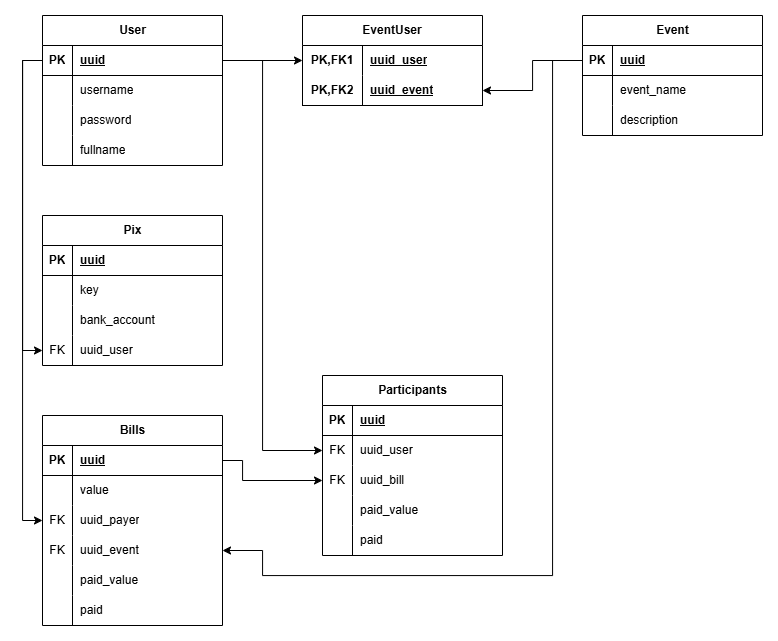
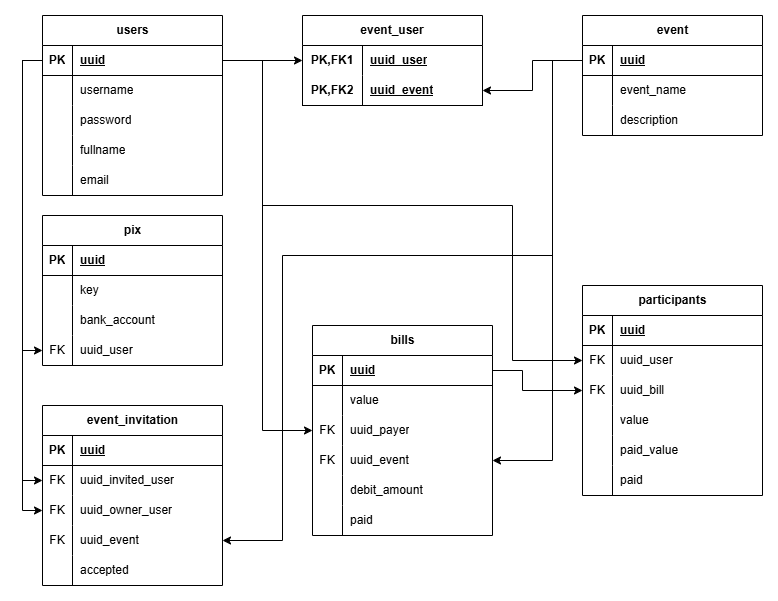
backend create Invitation event page

diff --git a/backend/src/main/java/com/BBHMM/backend/BBHMM/services/EventService.java b/backend/src/main/java/com/BBHMM/backend/BBHMM/services/EventService.java
@@ -3,14 +3,20 @@ package com.BBHMM.backend.BBHMM.services;
 import java.util.List;
 import java.util.UUID;
 
+import org.springframework.data.domain.Page;
+import org.springframework.data.domain.Pageable;
 import org.springframework.security.core.context.SecurityContextHolder;
 import org.springframework.stereotype.Service;
 
 import com.BBHMM.backend.BBHMM.infra.exceptions.InvalidDatabaseQueryException;
 import com.BBHMM.backend.BBHMM.models.Event;
+import com.BBHMM.backend.BBHMM.models.EventInvitation;
 import com.BBHMM.backend.BBHMM.models.User;
+import com.BBHMM.backend.BBHMM.models.request.AcceptInvitationRequest;
 import com.BBHMM.backend.BBHMM.models.request.CreateEventRequest;
 import com.BBHMM.backend.BBHMM.models.request.UpdateEventRequest;
+import com.BBHMM.backend.BBHMM.models.request.UserInvitationRequest;
+import com.BBHMM.backend.BBHMM.repositories.EventInvitationRepository;
 import com.BBHMM.backend.BBHMM.repositories.EventRepository;
 import com.BBHMM.backend.BBHMM.services.validation.EventValidation;
 
@@ -24,6 +30,8 @@ public class EventService {
     
     private final EventRepository repository;
     private final EventValidation validation;
+    private final EventInvitationRepository eventInvitationRepository;
+    private final UserService userService;
     
     @Transactional
     public Event createEvent(CreateEventRequest request, User user) {
@@ -61,5 +69,36 @@ public class EventService {
         event.update(request);
 
         return event;
+    }
+
+    public EventInvitation userInvitationEvent(UUID eventUuid, UserInvitationRequest request) {
+        Event event = getEvent(eventUuid);
+        User userOwner = (User) SecurityContextHolder.getContext().getAuthentication().getPrincipal();
+        User userInvited = userService.safeTakeUserByUuid(eventUuid);
+        validation.checkDuplicationInvate(request.userUuid(), eventUuid);
+        validation.checkUserAlreadyInEvent(request.userUuid(), eventUuid);
+
+        EventInvitation eventInvitation = new EventInvitation(userInvited, userOwner, event);
+        eventInvitationRepository.save(eventInvitation);
+
+        return eventInvitation;
+    }
+
+    @Transactional
+    public EventInvitation acceptedInvitationEvent(UUID invitationUuid, AcceptInvitationRequest request) {
+        EventInvitation eventInvitation = eventInvitationRepository.findById(invitationUuid).orElseThrow(EntityNotFoundException::new);
+        User userInvitedSecurity = (User) SecurityContextHolder.getContext().getAuthentication().getPrincipal();
+        User userInvited = userService.safeTakeUserByUuid(userInvitedSecurity.getUuid());
+        validation.checkInvateValid(eventInvitation, userInvited);
+
+        eventInvitation.acceptInvitation(request.accept());
+        if (request.accept()) eventInvitation.getEvent().addUser(userInvited);
+
+        return eventInvitation;
+    }
+
+    public Page<EventInvitation> listEventInvitation(Pageable pageable) {
+        User userOwner = (User) SecurityContextHolder.getContext().getAuthentication().getPrincipal();
+        return eventInvitationRepository.findAllByUserInvitedUuid(userOwner.getUuid(), pageable);
     }
 }

diff --git a/backend/src/main/java/com/BBHMM/backend/BBHMM/controllers/EventInvitationController.java b/backend/src/main/java/com/BBHMM/backend/BBHMM/controllers/EventInvitationController.java
@@ -1,0 +1,62 @@
+package com.BBHMM.backend.BBHMM.controllers;
+
+import org.springframework.data.domain.Page;
+import org.springframework.data.domain.Pageable;
+import org.springframework.data.web.PageableDefault;
+import org.springframework.http.ResponseEntity;
+import org.springframework.security.core.context.SecurityContextHolder;
+import org.springframework.web.bind.annotation.PathVariable;
+import org.springframework.web.bind.annotation.GetMapping;
+import org.springframework.web.bind.annotation.PostMapping;
+import org.springframework.web.bind.annotation.RequestBody;
+import org.springframework.web.bind.annotation.RequestMapping;
+import org.springframework.web.bind.annotation.RestController;
+
+import com.BBHMM.backend.BBHMM.models.EventInvitation;
+import com.BBHMM.backend.BBHMM.models.User;
+import com.BBHMM.backend.BBHMM.models.request.AcceptInvitationRequest;
+import com.BBHMM.backend.BBHMM.models.request.UserInvitationRequest;
+import com.BBHMM.backend.BBHMM.models.response.EventInvitationResponse;
+import com.BBHMM.backend.BBHMM.services.EventService;
+
+import java.util.UUID;
+import lombok.RequiredArgsConstructor;
+
+@RestController
+@RequestMapping("/events")
+@RequiredArgsConstructor
+public class EventInvitationController {
+
+    private final EventService eventService;
+
+    @PostMapping("/{eventUuid}/invitation")
+    public ResponseEntity<EventInvitationResponse> userInvitationEvent(
+        @PathVariable UUID eventUuid,
+        @RequestBody UserInvitationRequest request
+        ) {
+        EventInvitation eventInvitation = eventService.userInvitationEvent(eventUuid, request);
+        User userOwner = (User) SecurityContextHolder.getContext().getAuthentication().getPrincipal();
+        
+        return ResponseEntity.ok(new EventInvitationResponse(eventInvitation.getUuid(), eventService.getEvent(eventUuid), eventInvitation.getUserInvited(), userOwner));
+    }
+
+    @PostMapping("/invitation/{invitationUuid}/accepted")
+    public ResponseEntity<EventInvitationResponse> acceptedInvitationEvent(
+        @PathVariable UUID invitationUuid,
+        @RequestBody AcceptInvitationRequest request
+        ) {
+        EventInvitation eventInvitation = eventService.acceptedInvitationEvent(invitationUuid, request);
+        User invitedUser = (User) SecurityContextHolder.getContext().getAuthentication().getPrincipal();
+        
+        return ResponseEntity.ok(new EventInvitationResponse(invitationUuid, eventService.getEvent(request.eventUuid()), invitedUser, eventInvitation.getUserOwner()));
+    }
+
+    @GetMapping("/invitation")
+    public ResponseEntity<Page<EventInvitationResponse>> userInvitationList(
+        @PageableDefault(size = 10) Pageable pageable
+    ) {
+        var response = eventService.listEventInvitation(pageable).map(EventInvitationResponse::new);
+        
+        return ResponseEntity.ok(response);
+    }
+}

diff --git a/backend/src/main/java/com/BBHMM/backend/BBHMM/services/validation/EventValidation.java b/backend/src/main/java/com/BBHMM/backend/BBHMM/services/validation/EventValidation.java
@@ -1,10 +1,15 @@
 package com.BBHMM.backend.BBHMM.services.validation;
 
 import java.util.Map;
+import java.util.UUID;
 
 import org.springframework.stereotype.Component;
 
 import com.BBHMM.backend.BBHMM.infra.exceptions.InvalidDatabaseInsertionException;
+import com.BBHMM.backend.BBHMM.infra.exceptions.InvalidDatabaseQueryException;
+import com.BBHMM.backend.BBHMM.models.EventInvitation;
+import com.BBHMM.backend.BBHMM.models.User;
+import com.BBHMM.backend.BBHMM.repositories.EventInvitationRepository;
 import com.BBHMM.backend.BBHMM.repositories.EventRepository;
 
 import lombok.RequiredArgsConstructor;
@@ -14,6 +19,7 @@ import lombok.RequiredArgsConstructor;
 public class EventValidation {
 
     private EventRepository repository;
+    private EventInvitationRepository eventInvitationRepository;
 
     public void checkNameDuplication(String eventName) {
         if (eventName != null && repository.existsByEventName(eventName)) {
@@ -24,6 +30,46 @@ public class EventValidation {
                     "eventName",
                     eventName
                 )
+            );
+        }
+    }
+
+    public void checkDuplicationInvate(UUID invitedUserUuid, UUID eventUuid) {
+        if (eventInvitationRepository.existsByUserRequestUuidAndEventUuidAndAcceptedIsNull(invitedUserUuid, eventUuid)) {
+            throw new InvalidDatabaseInsertionException(
+                "Convite pendente já existente",
+                "Convite de Evento",
+                Map.of(
+                    "invitedUserUuid",
+                    invitedUserUuid.toString(),
+                    "eventUuid",
+                    eventUuid.toString()
+                )
+            );
+        }
+    }
+
+    public void checkUserAlreadyInEvent(UUID invitedUserUuid, UUID eventUuid) {
+        if (repository.userAlreadyInEvent(invitedUserUuid, eventUuid)) {
+            throw new InvalidDatabaseInsertionException(
+                "Usuário ja está no evento",
+                "Convite de Evento",
+                Map.of(
+                    "invitedUserUuid",
+                    invitedUserUuid.toString(),
+                    "eventUuid",
+                    eventUuid.toString()
+                )
+            );
+        }
+    }
+
+    public void checkInvateValid(EventInvitation eventInvitation, User userInvited) {
+        if (!eventInvitation.getUserInvited().getUuid().equals(userInvited.getUuid())) {
+            throw new InvalidDatabaseQueryException(
+                "Concite não pertence ao mesmo usuário",
+                "Convite de Evento",
+                userInvited.getUuid().toString()
             );
         }
     }

diff --git a/backend/src/main/java/com/BBHMM/backend/BBHMM/models/EventInvitation.java b/backend/src/main/java/com/BBHMM/backend/BBHMM/models/EventInvitation.java
@@ -1,0 +1,46 @@
+package com.BBHMM.backend.BBHMM.models;
+
+import java.util.UUID;
+
+import jakarta.persistence.Entity;
+import jakarta.persistence.GeneratedValue;
+import jakarta.persistence.Id;
+import jakarta.persistence.JoinColumn;
+import jakarta.persistence.ManyToOne;
+import jakarta.persistence.Table;
+import lombok.Getter;
+import lombok.NoArgsConstructor;
+
+@Entity
+@Table(name = "event_invitation")
+@Getter
+@NoArgsConstructor
+public class EventInvitation {
+
+    @Id @GeneratedValue(generator = "UUID")
+    private UUID uuid;
+
+    @ManyToOne
+    @JoinColumn(name = "uuid_invited_user", nullable = false)
+    private User userInvited;
+
+    @ManyToOne
+    @JoinColumn(name = "uuid_owner_user", nullable = false)
+    private User userOwner;
+
+    @ManyToOne
+    @JoinColumn(name = "event_uuid", nullable = false)
+    private Event event;
+
+    private Boolean accepted;
+
+    public EventInvitation(User userInvited, User userOwner, Event event){
+        this.userInvited = userInvited;
+        this.userOwner = userOwner;
+        this.event = event;
+    }
+
+    public void acceptInvitation(boolean accept) {
+        this.accepted = accept;
+    }
+}

diff --git a/backend/src/main/java/com/BBHMM/backend/BBHMM/models/response/EventInvitationResponse.java b/backend/src/main/java/com/BBHMM/backend/BBHMM/models/response/EventInvitationResponse.java
@@ -1,0 +1,35 @@
+package com.BBHMM.backend.BBHMM.models.response;
+
+import java.util.UUID;
+
+import com.BBHMM.backend.BBHMM.models.Event;
+import com.BBHMM.backend.BBHMM.models.EventInvitation;
+import com.BBHMM.backend.BBHMM.models.User;
+
+public record EventInvitationResponse(
+    UUID uuid,
+    String eventName,
+    String description,
+    UUID invitedUserUuid,
+    UserResponse ownerUser
+) {
+    public EventInvitationResponse(UUID uuid, Event event, User invitedUser, User ownerUser) {
+        this(
+            uuid,
+            event.getEventName(),
+            event.getDescription(),
+            invitedUser.getUuid(),
+            new UserResponse(ownerUser)
+        );
+    }
+
+    public EventInvitationResponse(EventInvitation eventInvitation) {
+        this(
+            eventInvitation.getUuid(),
+            eventInvitation.getEvent().getEventName(),
+            eventInvitation.getEvent().getDescription(),
+            eventInvitation.getUserInvited().getUuid(),
+            new UserResponse(eventInvitation.getUserOwner())
+        );
+    }
+}

diff --git a/backend/src/main/java/com/BBHMM/backend/BBHMM/controllers/EventController.java b/backend/src/main/java/com/BBHMM/backend/BBHMM/controllers/EventController.java
@@ -23,7 +23,6 @@ import java.util.UUID;
 public class EventController {
 
     private final EventService service;
-
     private final UserService userService;
 
     @PostMapping
@@ -59,9 +58,9 @@ public class EventController {
         return ResponseEntity.ok(new EventResponse(event));
     }
 
-    @GetMapping("/{uuid}/users")
-    public ResponseEntity<List<UserResponse>> listUsersFromEvent(@PathVariable UUID uuid) {
-        var response = userService.findParticipantsByEventUuid(uuid).stream().map(UserResponse::new).toList();
+    @GetMapping("/{eventUuid}/users")
+    public ResponseEntity<List<UserResponse>> listUsersFromEvent(@PathVariable UUID eventUuid) {
+        var response = userService.findParticipantsByEventUuid(eventUuid).stream().map(UserResponse::new).toList();
         return ResponseEntity.ok(response);
     }
 }

diff --git a/backend/src/main/java/com/BBHMM/backend/BBHMM/repositories/EventInvitationRepository.java b/backend/src/main/java/com/BBHMM/backend/BBHMM/repositories/EventInvitationRepository.java
@@ -1,0 +1,25 @@
+package com.BBHMM.backend.BBHMM.repositories;
+
+import java.util.UUID;
+
+import org.springframework.data.domain.Page;
+import org.springframework.data.domain.Pageable;
+import org.springframework.data.jpa.repository.JpaRepository;
+import org.springframework.data.jpa.repository.Query;
+
+import com.BBHMM.backend.BBHMM.models.EventInvitation;
+
+public interface EventInvitationRepository extends JpaRepository<EventInvitation, UUID> {
+
+    @Query("""
+    SELECT ei
+    FROM EventInvitation ei
+    JOIN FETCH ei.event
+    JOIN FETCH ei.userInvited
+    JOIN FETCH ei.userOwner
+    WHERE ei.userInvited.uuid = :userUuid
+    """)
+    Page<EventInvitation> findAllByUserInvitedUuid(UUID userUuid, Pageable pageable);
+
+    boolean existsByUserRequestUuidAndEventUuidAndAcceptedIsNull(UUID userUuid, UUID eventUuid);
+}

diff --git a/backend/src/main/java/com/BBHMM/backend/BBHMM/models/Event.java b/backend/src/main/java/com/BBHMM/backend/BBHMM/models/Event.java
@@ -33,6 +33,9 @@ public class Event {
     @OneToMany(mappedBy = "event", orphanRemoval = true)
     private List<Bill> bills = new ArrayList<>();
 
+    @OneToMany(mappedBy = "event", orphanRemoval = true)
+    private List<EventInvitation> eventInvitations = new ArrayList<>();
+
     public Event(CreateEventRequest request, User user) {
         this.eventName=request.eventName();
         this.description=request.description();
@@ -46,5 +49,9 @@ public class Event {
         if (request.description() != null) {
             this.description=request.description();
         }
+    }
+
+    public void addUser(User user) {
+        this.users.add(user);
     }
 }

diff --git a/backend/src/main/java/com/BBHMM/backend/BBHMM/repositories/EventRepository.java b/backend/src/main/java/com/BBHMM/backend/BBHMM/repositories/EventRepository.java
@@ -24,5 +24,15 @@ public interface EventRepository extends JpaRepository<Event, UUID> {
     """)
     List<Event> findAllbyUser(UUID userUuid);
 
+    @Query("""
+    SELECT CASE WHEN EXISTS(
+        SELECT 1 FROM Event e
+        JOIN e.users u
+        WHERE e.uuid = :eventUuid
+        AND u.uuid = :userUuid
+        ) THEN TRUE ELSE FALSE END
+    """)
+    boolean userAlreadyInEvent(UUID userUuid, UUID eventUuid);
+
     boolean existsByEventName(String eventName);
 }

diff --git a/backend/src/main/java/com/BBHMM/backend/BBHMM/models/Bill.java b/backend/src/main/java/com/BBHMM/backend/BBHMM/models/Bill.java
@@ -29,8 +29,8 @@ public class Bill {
     @JoinColumn(name = "uuid_event", nullable = false)
     private Event event;
 
-    @Column(nullable = false)
-    private BigDecimal paidValue = BigDecimal.ZERO;
+    @Column(name = "debit_amount",nullable = false)
+    private BigDecimal debitAmount = BigDecimal.ZERO;
 
     @Column(nullable = false)
     private Boolean paid = false;

diff --git a/backend/src/main/java/com/BBHMM/backend/BBHMM/models/User.java b/backend/src/main/java/com/BBHMM/backend/BBHMM/models/User.java
@@ -30,7 +30,8 @@ public class User implements UserDetails {
     @OneToOne(mappedBy = "user", cascade = CascadeType.ALL, orphanRemoval = true)
     private Pix pix;
 
-    @Column()
+    @Column(nullable = false, length = 255)
+    private String email;
 
     @ManyToMany(mappedBy = "users")
     private Set<Event> events = new HashSet<>();

diff --git a/backend/src/main/java/com/BBHMM/backend/BBHMM/models/request/UserInvitationRequest.java b/backend/src/main/java/com/BBHMM/backend/BBHMM/models/request/UserInvitationRequest.java
@@ -1,0 +1,11 @@
+package com.BBHMM.backend.BBHMM.models.request;
+
+import java.util.UUID;
+
+import jakarta.validation.constraints.NotNull;
+
+public record UserInvitationRequest(
+    @NotNull(message = "User ID é necessário")
+    UUID userUuid
+) {
+}
